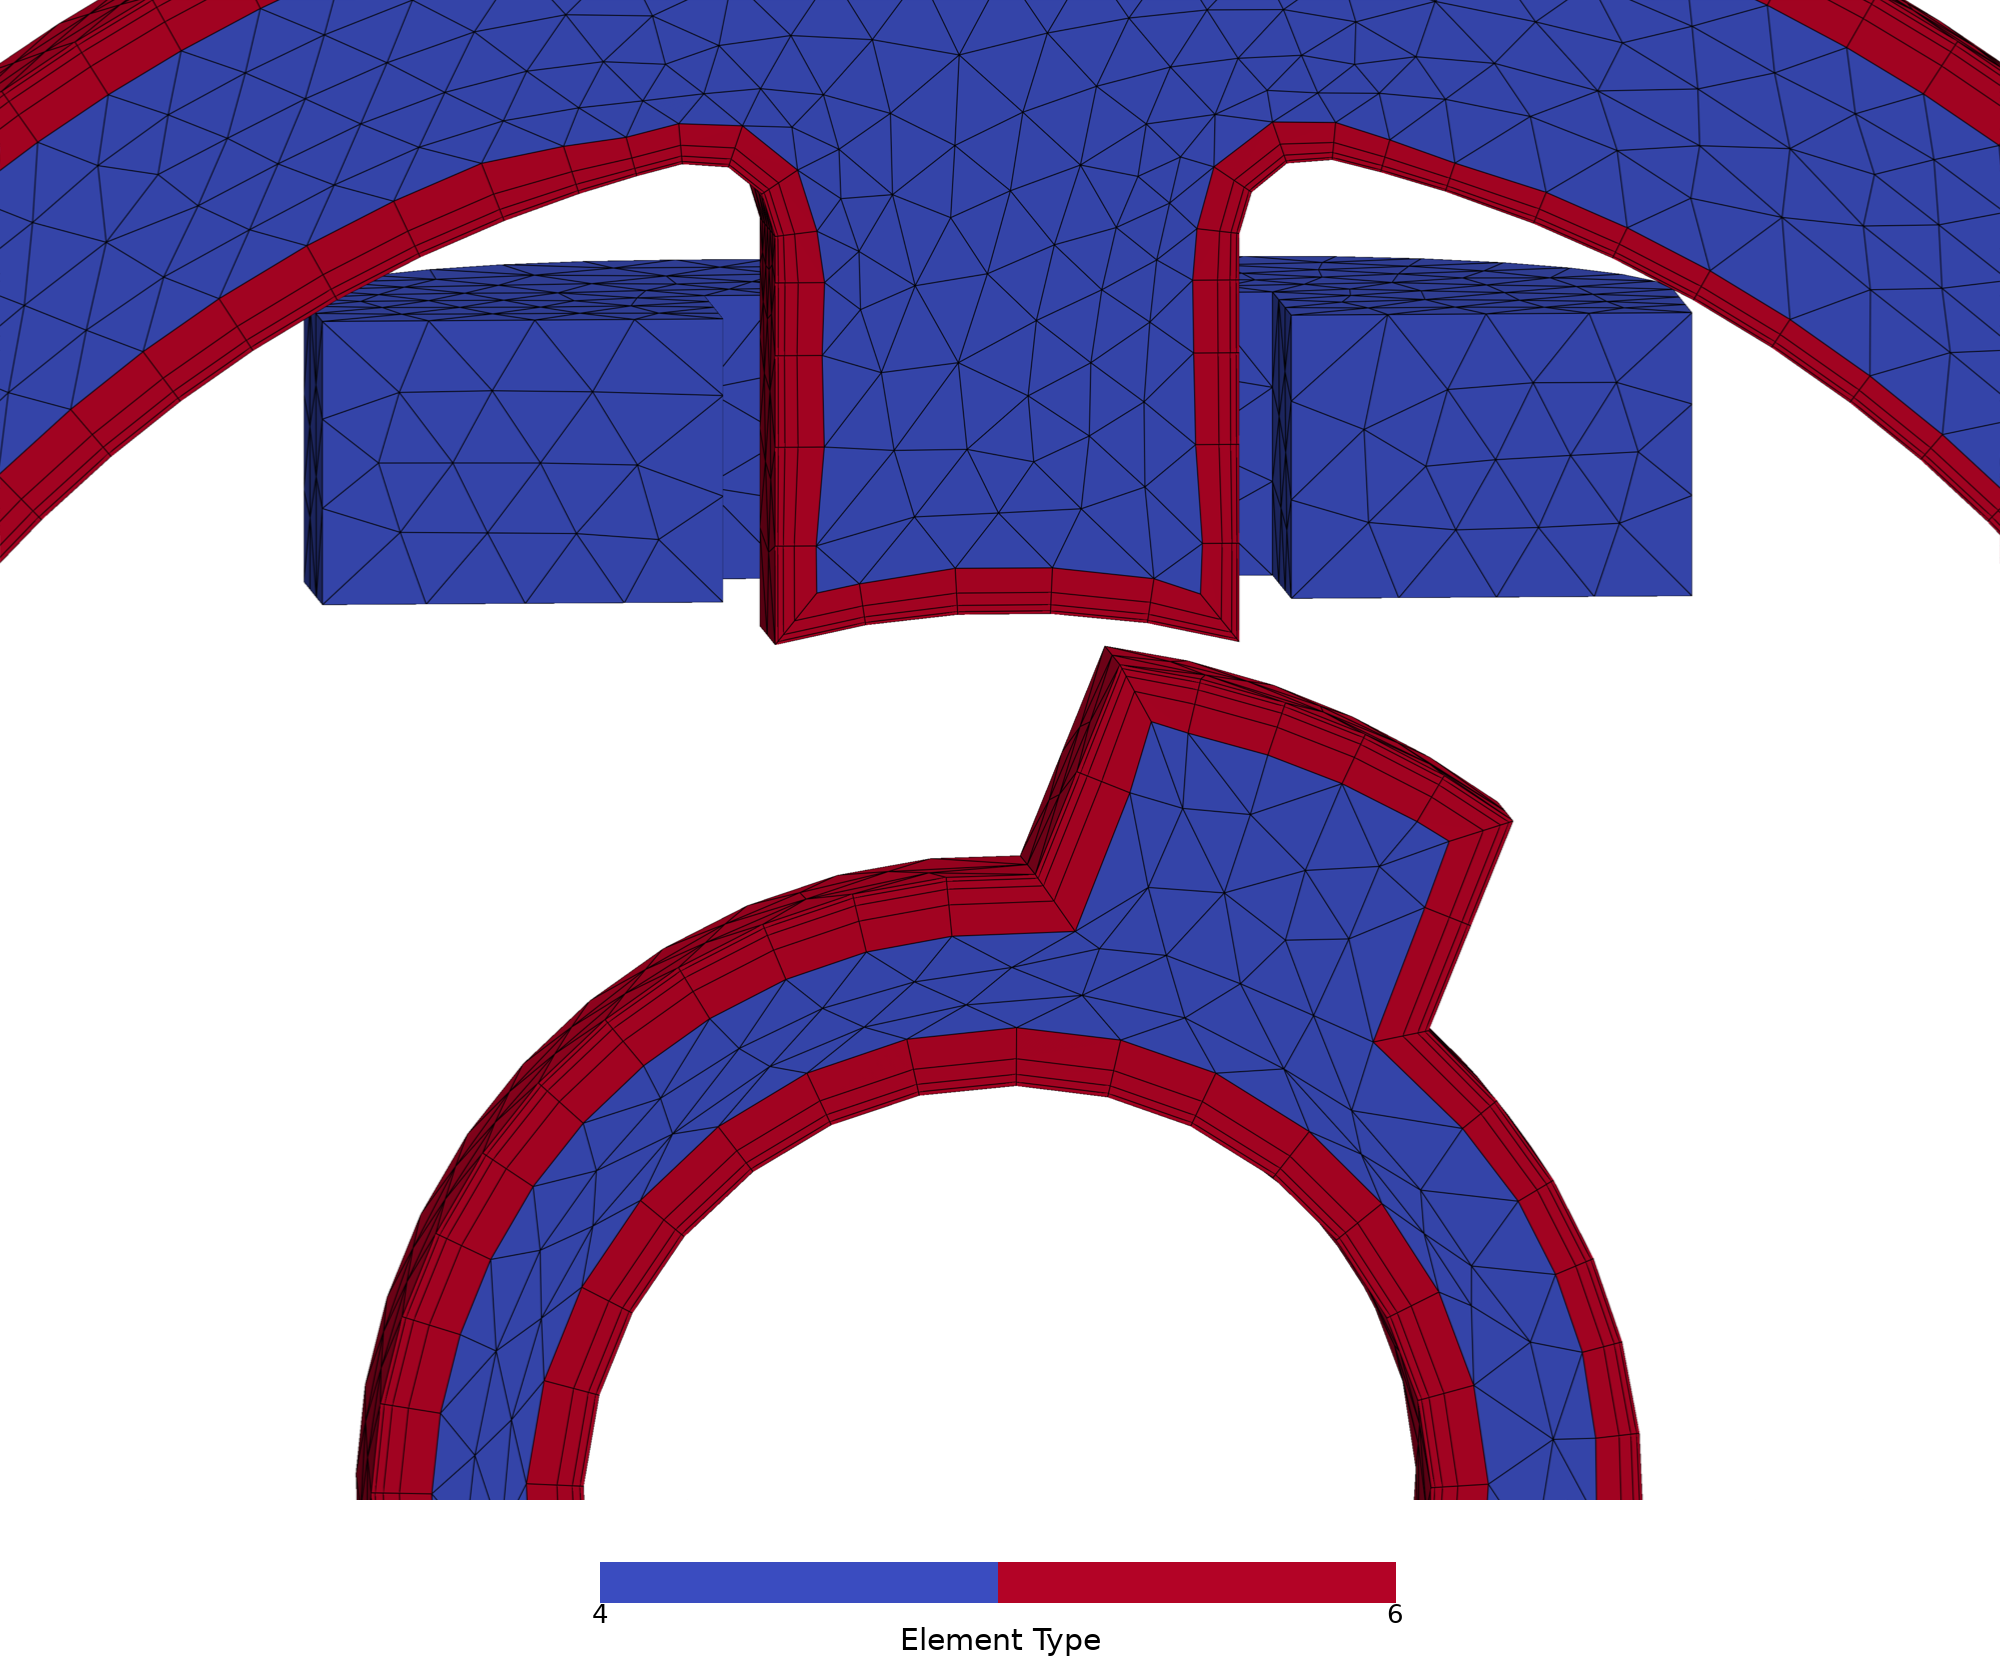
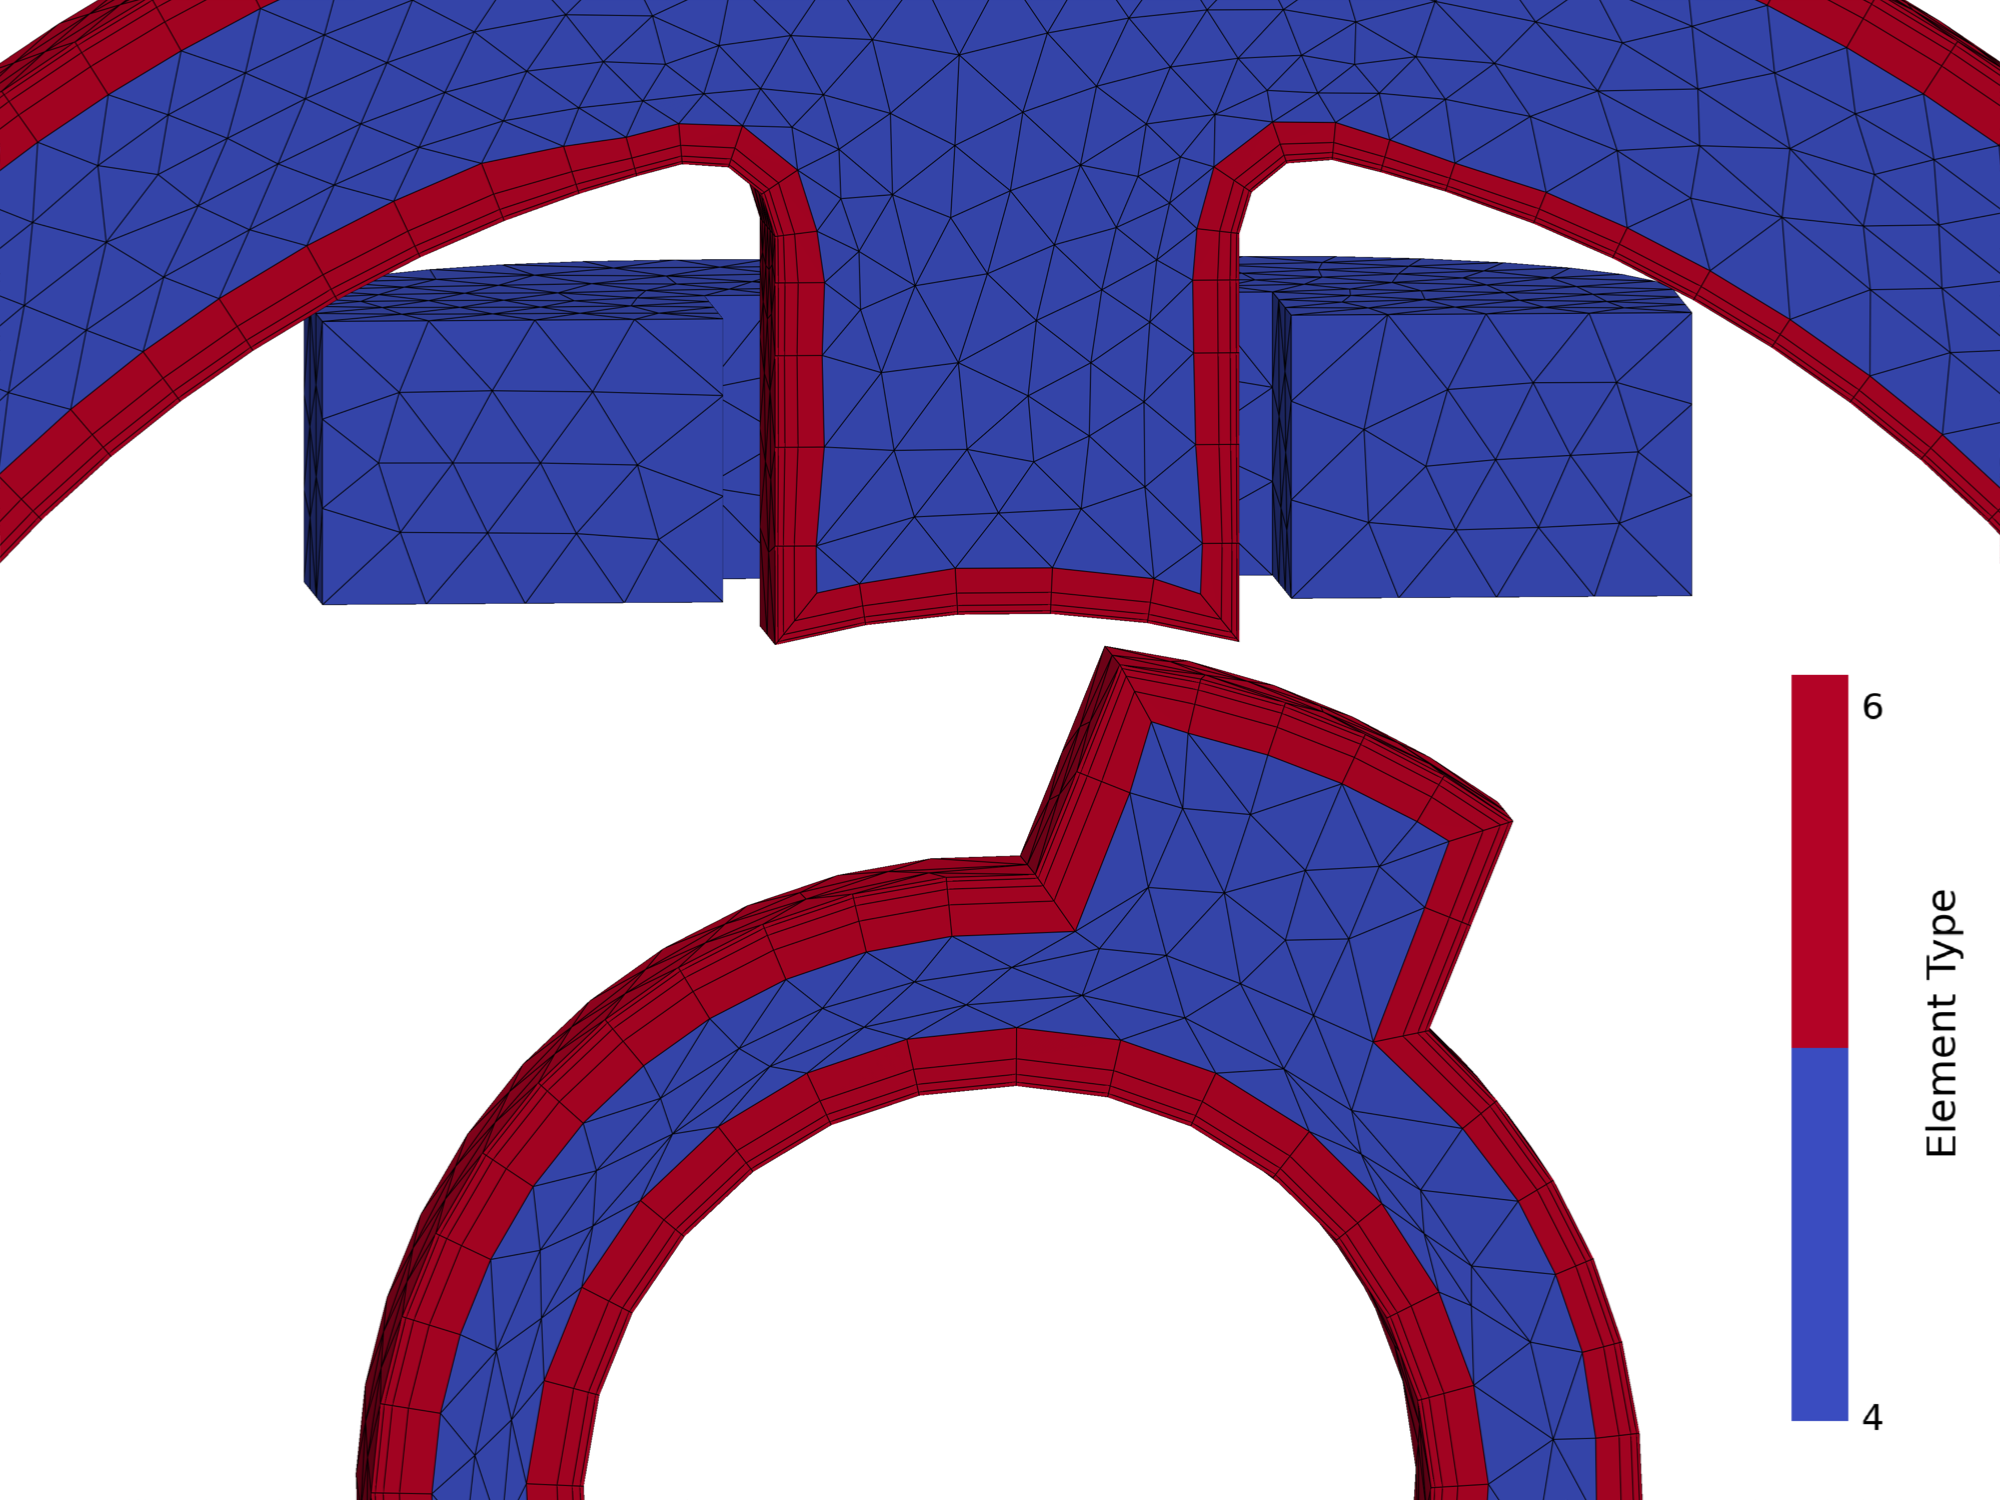
Use PyVista native colorbar placement

diff --git a/casekit/pyvista_scene.py b/casekit/pyvista_scene.py
@@ -7,10 +7,10 @@ common `theme` of the scenes; the scripts are otherwise plain PyVista:
     plotter = pv.Plotter(theme=theme, off_screen=True)
     actor = plotter.add_mesh(bodies, scalars="Temperature", clim=(300, 400))
     add_colorbar(plotter, actor, "Temperature [K]", n_labels=3, label_format="%.0f")
+    plotter.camera.zoom(0.85)  # room for the color bar
     save(plotter, path)
 """
 
-import itertools
 import json
 from pathlib import Path
 from typing import List, Optional, Sequence, Tuple
@@ -22,7 +22,6 @@ from vtkmodules.vtkChartsCore import vtkChartLegend, vtkPlotPoints
 from vtkmodules.vtkCommonDataModel import vtkCompositeDataSet
 from vtkmodules.vtkIOXML import vtkXMLPartitionedDataSetCollectionReader
 from vtkmodules.vtkRenderingAnnotation import vtkScalarBarActor
-from vtkmodules.vtkRenderingCore import vtkRenderer
 
 from casekit.images import trim
 from casekit.plots import PlotStyle
@@ -60,49 +59,6 @@ def output_files(case_dir: Path) -> List[Path]:
     return [output_dir / entry["name"] for entry in series["files"]]
 
 
-def _content_margins(renderer) -> Tuple[float, float, float, float]:
-    """Empty margins (left, bottom, right, top) in pixels around the visible props of
-    `renderer`, from the corners of their bounds; negative where they reach beyond."""
-    renderer.GetRenderWindow().Render()  # the projection of the current window size
-    bounds = renderer.ComputeVisiblePropBounds()
-    points = []
-    for corner in itertools.product(bounds[0:2], bounds[2:4], bounds[4:6]):
-        renderer.SetWorldPoint(*corner, 1.0)
-        renderer.WorldToDisplay()
-        points.append(renderer.GetDisplayPoint()[:2])
-    (x0, y0), (x1, y1) = np.min(points, axis=0), np.max(points, axis=0)
-    (left, bottom), (width, height) = renderer.GetOrigin(), renderer.GetSize()
-    return x0 - left, y0 - bottom, left + width - x1, bottom + height - y1
-
-
-def _insert_strip(plotter: pv.Plotter, strip: float, margin: float, vertical: bool) -> vtkRenderer:
-    """A renderer in a strip of `strip` pixels right of (`vertical`) or below the active
-    renderer; the renderers beside it move along and the window grows. On the right, the
-    active renderer first loses the empty space beside its content down to `margin` pixels (the
-    camera stays centered), so that the strip follows the content."""
-    scene = plotter.renderer
-    size = np.array([*plotter.window_size] * 2, dtype=float)
-    x0, y0, x1, y1 = np.multiply(scene.GetViewport(), size)
-    cut = 2 * max(min(_content_margins(scene)[0::2]) - margin, 0.0) if vertical else 0.0
-    axis, edge = (0, x1) if vertical else (1, y0)  # everything from `edge` on moves
-    rects = {r: np.multiply(r.GetViewport(), size) for r in plotter.render_window.GetRenderers()}
-    for rect in rects.values():
-        rect[axis::2] += np.where(rect[axis::2] >= edge - 0.5, strip - cut, 0.0)
-    if vertical:
-        rects[scene][2] = x1 - cut
-    size[axis::2] += strip - cut
-    for renderer, rect in rects.items():
-        renderer.SetViewport(*(rect / size))
-    plotter.window_size = size[:2].round().astype(int).tolist()
-
-    renderer = vtkRenderer()  # a plain one: no SSAA, and alive as long as the window is
-    rect = (x1 - cut, y0, x1 - cut + strip, y1) if vertical else (x0, y0, x1, y0 + strip)
-    renderer.SetViewport(*(np.array(rect) / size))
-    renderer.SetBackground(plotter.background_color.float_rgb)
-    plotter.render_window.AddRenderer(renderer)
-    return renderer
-
-
 def add_colorbar(
     plotter: pv.Plotter,
     actor: pv.Actor,
@@ -111,31 +67,25 @@ def add_colorbar(
     label_format: str = "%.1f",
     location: str = "right",
     font_size: int = 26,
-    gap: int = 60,
-    padding: int = 90,
 ) -> vtkScalarBarActor:
-    """Color bar of `actor` with `n_labels` labels from the lowest to the highest value of its
-    range (the clim of the mesh) in a strip added on the `location` ("right"
-    or "bottom") of the active renderer; the window grows by the strip, so that the scene keeps
-    its view (set the camera before). On the right, the scene first loses its empty margins
-    beside the content. The strip fits the bar, its labels and its title, with `gap` pixels
-    toward the scene and `padding` pixels on the other side, e.g. toward a chart beside it."""
-    if location not in ("right", "bottom"):
-        raise ValueError(f"location {location!r} is neither 'right' nor 'bottom'")
-    vertical = location == "right"
+    """Vertical color bar of `actor` in the active renderer with `n_labels` labels from the
+    lowest to the highest value of its range (the clim of the mesh), the title along the bar.
+    It is half as high as the renderer, at its right edge, centered ("right") or at the bottom
+    ("lower right"); its box fits the labels and the title. Move the camera to keep the content
+    clear of it."""
+    if location not in ("right", "lower right"):
+        raise ValueError(f"location {location!r} is neither 'right' nor 'lower right'")
     title_size = font_size + 4
 
-    # The extent of the texts, measured in the font of the bar.
-    # A leading space keeps the labels off a vertical bar (VTK's text pad also shifts them along).
-    label_format = f" {label_format}" if vertical else label_format
+    # The width of the box from the texts, measured in the font of the bar. A leading space
+    # keeps the labels off the bar (VTK's text pad also shifts them along the bar).
+    label_format = f" {label_format}"
     low, high = actor.mapper.scalar_range
     labels = [label_format % value for value in np.linspace(low, high, n_labels)]
-    label_font = ImageFont.truetype(FONT_FILE, font_size)
-    label_width = max(label_font.getbbox(label)[2] for label in labels)
+    label_width = max(ImageFont.truetype(FONT_FILE, font_size).getbbox(t)[2] for t in labels)
     title_height = ImageFont.truetype(FONT_FILE, title_size).getbbox(title)[3]
     thickness = round(1.6 * font_size)
-    content = thickness + (label_width if vertical else font_size) + font_size + title_height
-    strip = gap + content + padding
+    width = thickness + label_width + font_size + title_height
 
     # The range of the mapper: the lookup table of a MultiBlock keeps (0, 1).
     lookup_table = actor.mapper.lookup_table
@@ -150,24 +100,18 @@ def add_colorbar(
     _font(bar.GetLabelTextProperty(), font_size)
     bar.SetUnconstrainedFontSize(True)
     bar.SetDrawFrame(False)
-    bar.SetBarRatio(thickness / content)
+    bar.SetOrientationToVertical()
+    bar.SetForceVerticalTitle(True)
+    bar.SetVerticalTitleSeparation(font_size)
+    bar.SetBarRatio(thickness / width)
 
-    # The bar at the gap from the scene: half as long as the scene is high, or 40 % of the
-    # strip wide.
-    if vertical:
-        bar.SetOrientationToVertical()
-        bar.SetForceVerticalTitle(True)
-        bar.SetVerticalTitleSeparation(font_size)
-        bar.SetPosition(gap / strip, 0.25)
-        bar.SetWidth(content / strip)
-        bar.SetHeight(0.5)
-    else:
-        bar.SetOrientationToHorizontal()
-        bar.SetTextPositionToPrecedeScalarBar()  # the labels below the bar
-        bar.SetPosition(0.3, padding / strip)
-        bar.SetWidth(0.4)
-        bar.SetHeight(content / strip)
-    _insert_strip(plotter, strip, 15, vertical).AddViewProp(bar)
+    renderer_width = plotter.renderer.GetViewport()[2] - plotter.renderer.GetViewport()[0]
+    width /= renderer_width * plotter.window_size[0]  # in fractions of the renderer
+    margin = font_size / (renderer_width * plotter.window_size[0])
+    bar.SetPosition(1.0 - width - margin, 0.25 if location == "right" else 0.05)
+    bar.SetWidth(width)
+    bar.SetHeight(0.5)
+    plotter.renderer.add_actor(bar)
     return bar
 
 

diff --git a/Electromagnetics/Compumag-Team24-Locked-Rotor/case.py b/Electromagnetics/Compumag-Team24-Locked-Rotor/case.py
@@ -362,7 +362,7 @@ class Team24LockedRotor(ValidationCase):
         )
         plotter.camera_position = [(-0.012, 0.06, 0.16), (0.0, 0.045, -0.006), (0, 1, 0)]
         plotter.camera.parallel_scale = 0.0448
-        add_colorbar(plotter, actor, "Element Type", 2, "%.0f", location="bottom")
+        add_colorbar(plotter, actor, "Element Type", 2, "%.0f", "lower right", font_size=36)
         save(plotter, self.results_path / "Scene_ElementType.png")
 
         # Animation: the electric current density from +z with its color bar, and the coil
@@ -395,8 +395,9 @@ class Team24LockedRotor(ValidationCase):
             actor = plotter.add_mesh(bodies, scalars=title, clim=(0.0, 3.0), name="field")
             if i == 0:
                 plotter.view_xy()
-                plotter.renderer.ResetCameraScreenSpace()  # tight fit on screen (VTK)
-                add_colorbar(plotter, actor, title, 7, font_size=19, gap=40, padding=60)
+                plotter.camera.focal_point = (0.03, 0.0, 0.0)  # room for the color bar
+                plotter.camera.position = (0.03, 0.0, 1.0)
+                add_colorbar(plotter, actor, title, 7, font_size=19)
             for curve, values in curves:
                 # The last point twice: VTK leaves a single point out of the legend.
                 curve.update(*values[[*range(i + 1), i]].T)

diff --git a/Electromagnetics/Compumag-Team20-3D-Static-Force-Problem/case.py b/Electromagnetics/Compumag-Team20-3D-Static-Force-Problem/case.py
@@ -284,7 +284,7 @@ class Team20StaticForce(ValidationCase):
         plotter = pv.Plotter(theme=theme, off_screen=True, window_size=(1100, 1600))
         actor = plotter.add_mesh(bodies, scalars="Magnetic Flux Density", clim=(0.0, 2.5))
         plotter.view_vector((-1, -1, 1), viewup=(0, 0, 1))
-        plotter.renderer.ResetCameraScreenSpace()  # tight fit on screen (VTK, no PyVista)
+        plotter.camera.zoom(0.85)  # room for the color bar
         add_colorbar(plotter, actor, "Magnetic Flux Density [T]", n_labels=6)
         save(plotter, self.dir_path / "data" / "Vis_MagneticFluxDensity.png")
 
